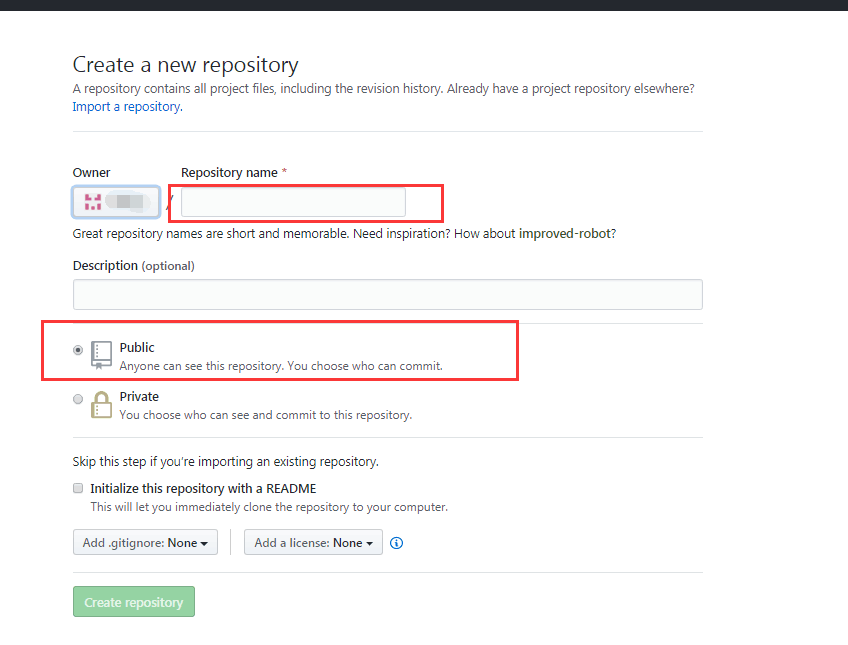
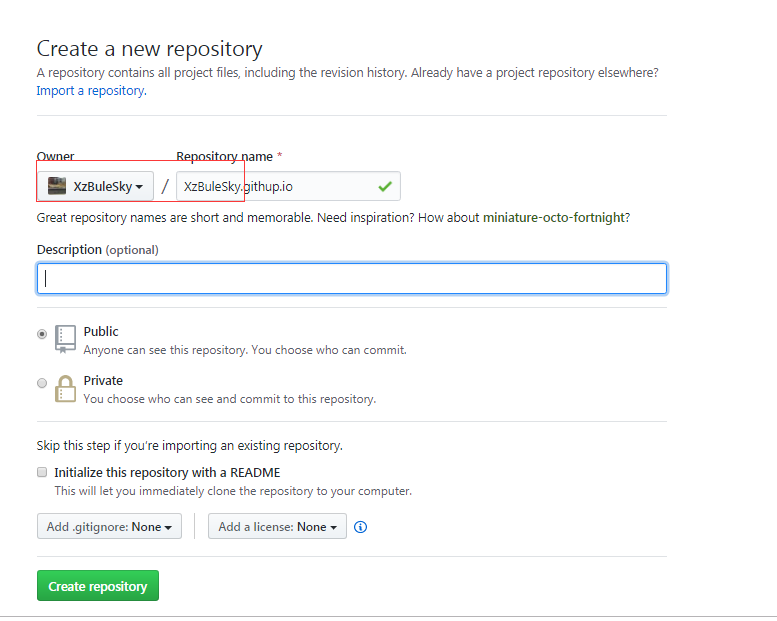
创建个人仓库

diff --git a/_posts/tech/2019-07-05-githup-responity-Personal-Blog.md b/_posts/tech/2019-07-05-githup-responity-Personal-Blog.md
@@ -18,7 +18,7 @@ github官网链接：[https://github.com/](https://github.com/)
 ### 创建同账号名的仓库
 
 <center>
-   <img src="https://XzBuleSky.github.io/pages/build-repository.png" alt="创建个人账号">
+   <img src="https://XzBuleSky.github.io/pages/repository.png" alt="创建同名仓库">
 </center>
 
 
